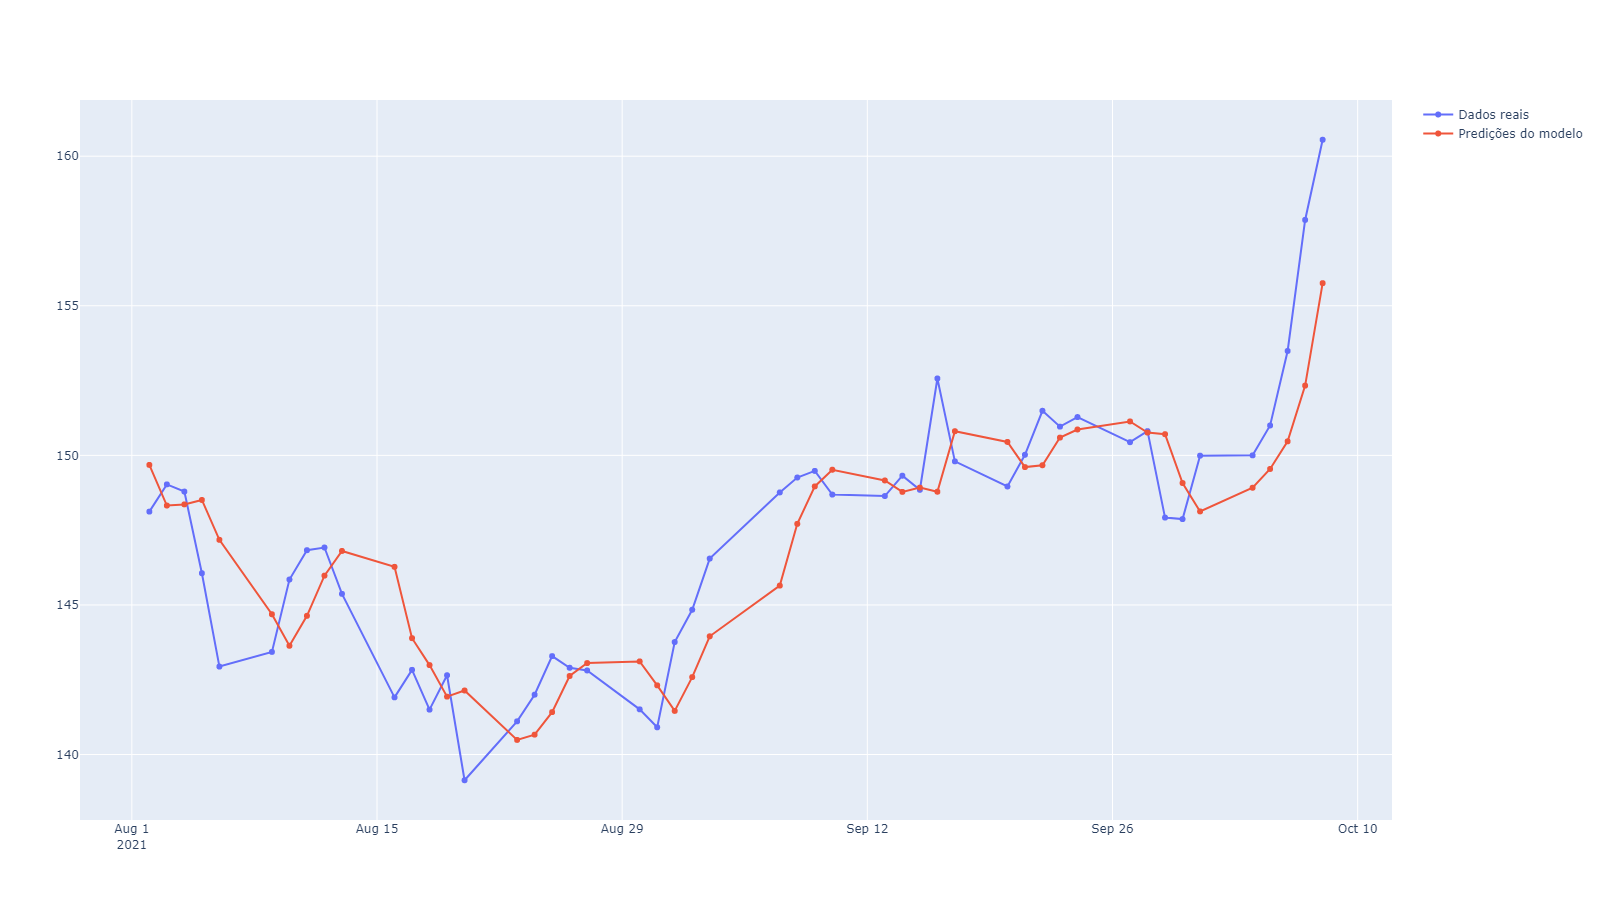
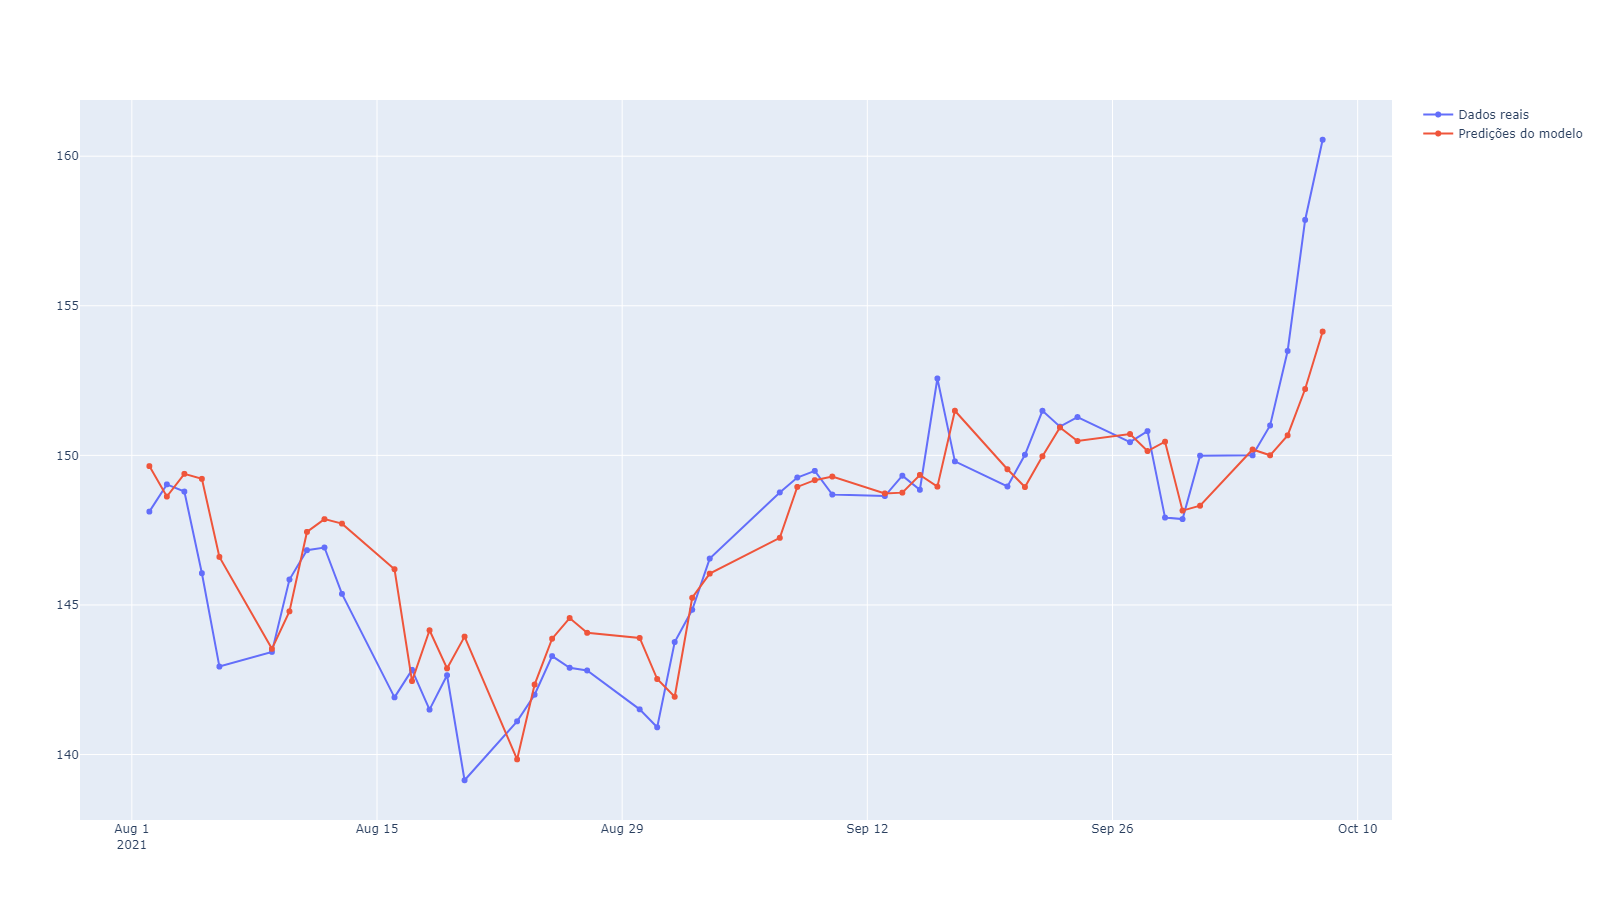
Version 2.0

diff --git a/Code/LSTM_continuous.py b/Code/LSTM_continuous.py
@@ -14,7 +14,7 @@ from Auxiliary_functions import *
 from tensorflow.keras import Sequential
 import plotly.graph_objects as go
 from sklearn.metrics import *
-
+import keras
 __name__ = "main"
 
 def load_prep_data(): 
@@ -38,7 +38,7 @@ def load_prep_data():
 
     len_lags = 30 # tamanho da nossa janela
 
-    X_train, Y_train = split_sequence(processed_series, len_lags)
+    X_train, Y_train = split_sequence(series, len_lags)
 
     X_train = X_train.reshape((X_train.shape[0], X_train.shape[1], 1))
 
@@ -52,18 +52,21 @@ def create_train_model(train_X: np.array, train_Y: np.array) -> Sequential:
     '''
 
     Model = Sequential() # Inicialização da nossa rede
-    Model.add(LSTM(units = 125, return_sequences = False, input_shape = (len_lags,1)))
-    Model.add(Dense(units = 10))
-    Model.add(Dense(units = 1, activation = "linear"))
+    Model.add(LSTM(units = 150, return_sequences = False, input_shape = (len_lags,1)))
+    # Model.add(LSTM(units = 60, return_sequences = False))
+    Model.add(Dense(units = 20))
+    Model.add(Dense(units = 1, activation = "linear")) 
 
-    Model.compile(loss = 'mean_squared_error', optimizer = 'adam') # Compilação do modelo indicando qual função de perda a ser usada e o otimizador de escolha
+    opt = tf.keras.optimizers.Adam(lr = 0.002)
 
-    Model.fit(train_X, train_Y, epochs = 20, batch_size = 30, verbose = 1) # Chamada do treinamento e otimização da rede
+    Model.compile(loss = 'mean_squared_error', optimizer = opt) # Compilação do modelo indicando qual função de perda a ser usada e o otimizador de escolha
+
+    Model.fit(train_X, train_Y, epochs = 60, batch_size = 32, verbose = 1) # Chamada do treinamento e otimização da rede
 
     return(Model)
 
 
-def validation_loading():
+def validation_loading():           
     
     '''
     Carregamento dos dados de validação do modelo
@@ -77,7 +80,7 @@ def validation_loading():
 
     data_test_processed = scaler.transform(data_test)
 
-    X_test, Y_test = split_sequence(data_test_processed, len_lags)
+    X_test, Y_test = split_sequence(data_test, len_lags)
 
     X_test_reshaped = X_test.reshape((X_test.shape[0], X_test.shape[1], 1))
 
@@ -92,9 +95,9 @@ def model_validation(X_test, Y_test, Model):
 
     predictions = Model.predict(X_test)
 
-    predictions = scaler.inverse_transform(predictions)
+    # predictions = scaler.inverse_transform(predictions)
 
-    Y_test = scaler.inverse_transform(Y_test)
+    # Y_test = scaler.inverse_transform(Y_test)
 
     fig = go.Figure(go.Scatter(x = dataframe2.index, y = Y_test[:,0], name = "Dados reais", mode = "lines+markers"))
 
